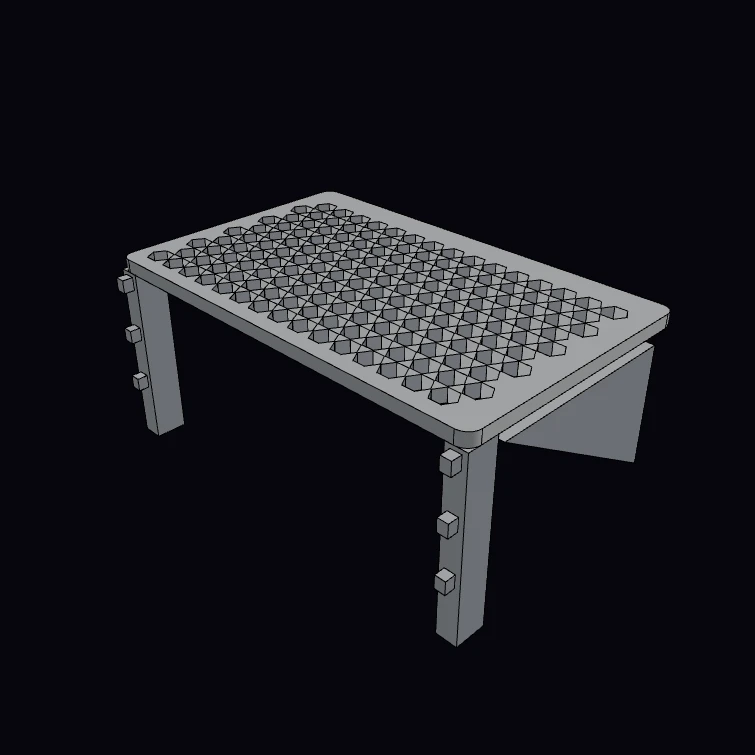
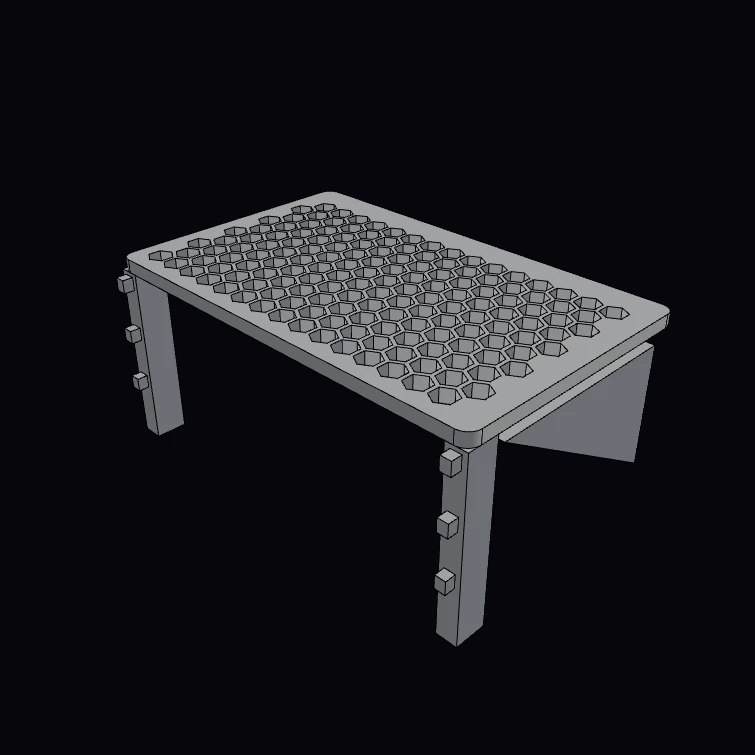
fix(playground): correct pegboard honeycomb wall thickness
The hex cells were rotated 90deg to flat-top, but the lattice pitch
(stepX = 2*inradius + gap, neighbours at 0/60/.../300 deg) is a pointy-top
honeycomb grid. A flat-top hex points a vertex at each neighbour, collapsing
every wall to stepX - 2*circumR ~= 0.26 mm instead of the intended 1.5 mm.

Drop the rotation so sketchPolysides' native pointy-top hex faces a flat at
each neighbour, restoring uniform hexGap walls — matching the enclosure
example's honeycomb. Flagged by Greptile (P2).

Changed region(s): [[0.1828, 0.2742, 0.8225, 0.5483]]

diff --git a/apps/playground/src/lib/examples/mechanical.ts b/apps/playground/src/lib/examples/mechanical.ts
@@ -3459,13 +3459,13 @@ function pegboardShelf(
         const x = -halfW + i * stepX + ox;
         const y = -halfD + j * rowOff * 2 + oy;
         if (Math.abs(x) > halfW || Math.abs(y) > halfD) continue;
-        // Hex prism, flat side up, taller than the plate so it cuts clean.
-        const cell = translate(
-          rotate(sketchPolysides(hexR, 6).extrude(thickness + 2), 90, {
-            axis: [0, 0, 1],
-          }),
-          [x, y, -1],
-        );
+        // Pointy-top hex (sketchPolysides emits a vertex straight up), taller
+        // than the plate so it cuts clean. Pointy-top is what keeps the walls
+        // uniform: its six flats face the six lattice neighbours (at 0/60/.../
+        // 300 deg), so every wall is exactly stepX - 2*hexInradius = hexGap.
+        // Rotating it flat-top would point a vertex at each neighbour and
+        // collapse the walls to stepX - 2*hexR.
+        const cell = translate(sketchPolysides(hexR, 6).extrude(thickness + 2), [x, y, -1]);
         holes.push(cell);
       }
     }
